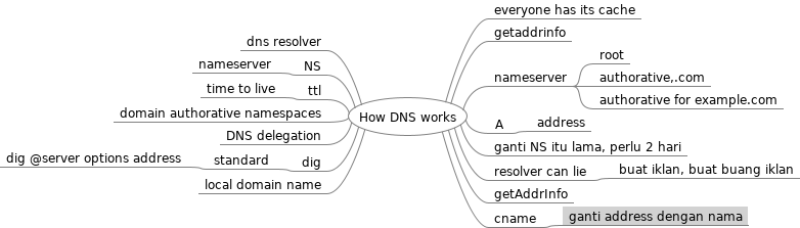
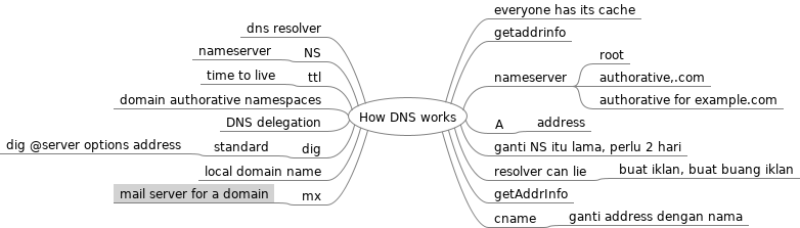
update lecture notes

Changed region(s): [[0.0, 0.0921, 0.4688, 0.9211], [0.6875, 0.8904, 0.9375, 1.0]]

diff --git a/How DNS works.mm b/How DNS works.mm
@@ -34,5 +34,8 @@
 <node CREATED="1651855019402" ID="ID_1804669474" MODIFIED="1651855021205" POSITION="right" TEXT="cname">
 <node CREATED="1651855021442" ID="ID_287389978" MODIFIED="1651855026569" TEXT="ganti address dengan nama"/>
 </node>
+<node CREATED="1651855340223" ID="ID_557810616" MODIFIED="1651855342089" POSITION="left" TEXT="mx">
+<node CREATED="1651855342330" ID="ID_1246775858" MODIFIED="1651855349849" TEXT="mail server for a domain"/>
+</node>
 </node>
 </map>
